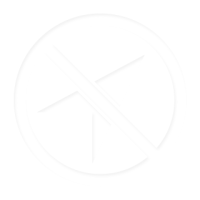
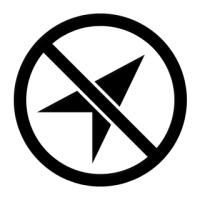
Reversed nolocation and nonetwork images.

Changed region(s): [[0.06, 0.06, 0.96, 0.96]]

diff --git a/source-win8/Drash/Drash/DrashPage.xaml b/source-win8/Drash/Drash/DrashPage.xaml
@@ -274,6 +274,12 @@
                         <ObjectAnimationUsingKeyFrames Storyboard.TargetName="pageRoot" Storyboard.TargetProperty="MaxHeight">
                             <DiscreteObjectKeyFrame KeyTime="0:0:0.150" Value="800"/>
                         </ObjectAnimationUsingKeyFrames>
+                        <ObjectAnimationUsingKeyFrames Storyboard.TargetName="DataView" Storyboard.TargetProperty="Margin">
+                            <DiscreteObjectKeyFrame KeyTime="0:0:0.150" Value="30,0,30,30"/>
+                        </ObjectAnimationUsingKeyFrames>
+                        <ObjectAnimationUsingKeyFrames Storyboard.TargetName="GraphView" Storyboard.TargetProperty="Margin">
+                            <DiscreteObjectKeyFrame KeyTime="0:0:0.150" Value="30,30,30,0"/>
+                        </ObjectAnimationUsingKeyFrames>
                     </Storyboard>
                 </VisualState>
 

diff --git a/source-win8/Drash/Drash/Models/ViewModel.cs b/source-win8/Drash/Drash/Models/ViewModel.cs
@@ -8,6 +8,7 @@ using Drash.Common;
 using Windows.Devices.Geolocation;
 using Windows.UI;
 using Windows.UI.Core;
+using Windows.UI.Popups;
 using Windows.UI.Xaml;
 using Windows.UI.Xaml.Media;
 using Windows.UI.Xaml.Media.Imaging;
@@ -208,15 +209,29 @@ namespace Drash.Models
             fetchingRain = true;
             UpdateBusy();
             firstFetch = false;
-            try {
-                var uri = string.Format("http://gps.buienradar.nl/getrr.php?lat={0:0.000000}&lon={1:0.000000}&stamp={2}", Model.Location.Latitude, Model.Location.Longitude, DateTime.UtcNow.Ticks);
 
-                var wc = new HttpClient();
-                var result = await wc.GetAsync(uri);
-                if (result.IsSuccessStatusCode) {
-                    Model.Rain = await RainData.TryParseAsync(await result.Content.ReadAsStringAsync());
+            try {
+                MessageDialog dialog = null;
+
+                try {
+                    var uri = string.Format("http://gps.buienradar.nl/getrr.php?lat={0:0.000000}&lon={1:0.000000}&stamp={2}", Model.Location.Latitude, Model.Location.Longitude, DateTime.UtcNow.Ticks);
+
+                    var wc = new HttpClient();
+                    var result = await wc.GetAsync(uri);
+                    if (result.IsSuccessStatusCode) {
+                        Model.Rain = await RainData.TryParseAsync(await result.Content.ReadAsStringAsync());
+                    }
+                    Model.RainWasUpdated = true;
                 }
-                Model.RainWasUpdated = true;
+                catch (Exception ex) {
+                    dialog = new MessageDialog("Could not fetch rain data. An error occured.") {
+                        Options = MessageDialogOptions.AcceptUserInputAfterDelay
+                    };
+                }
+
+                if (dialog != null) {
+                    await dialog.ShowAsync();
+                }
             }
             finally {
                 fetchingRain = false;
@@ -224,6 +239,7 @@ namespace Drash.Models
                 UpdateState();
                 nextRainUpdate.Run(FetchRain);
             }
+
         }
 
         private void UpdateBusy()
@@ -306,13 +322,12 @@ namespace Drash.Models
             }
 
             string night;
-            if (Model.Location != null) {
+            if (intensity == 0 && Model.Location != null) {
                 var solarinfo = SolarInfo.ForDate(Model.Location.Latitude, Model.Location.Longitude, DateTime.Now);
                 var sunrisen = solarinfo.Sunrise < DateTime.UtcNow && DateTime.UtcNow < solarinfo.Sunset;
-                night = intensity == 0 && !sunrisen ? "n" : "d";
+                night = !sunrisen ? "n" : "d";
             }
-            else
-            {
+            else {
                 night = "";
             }
             mmImage = string.Format("ms-appx:/Assets/intensity{0}{1}.png", mmImage, night);
